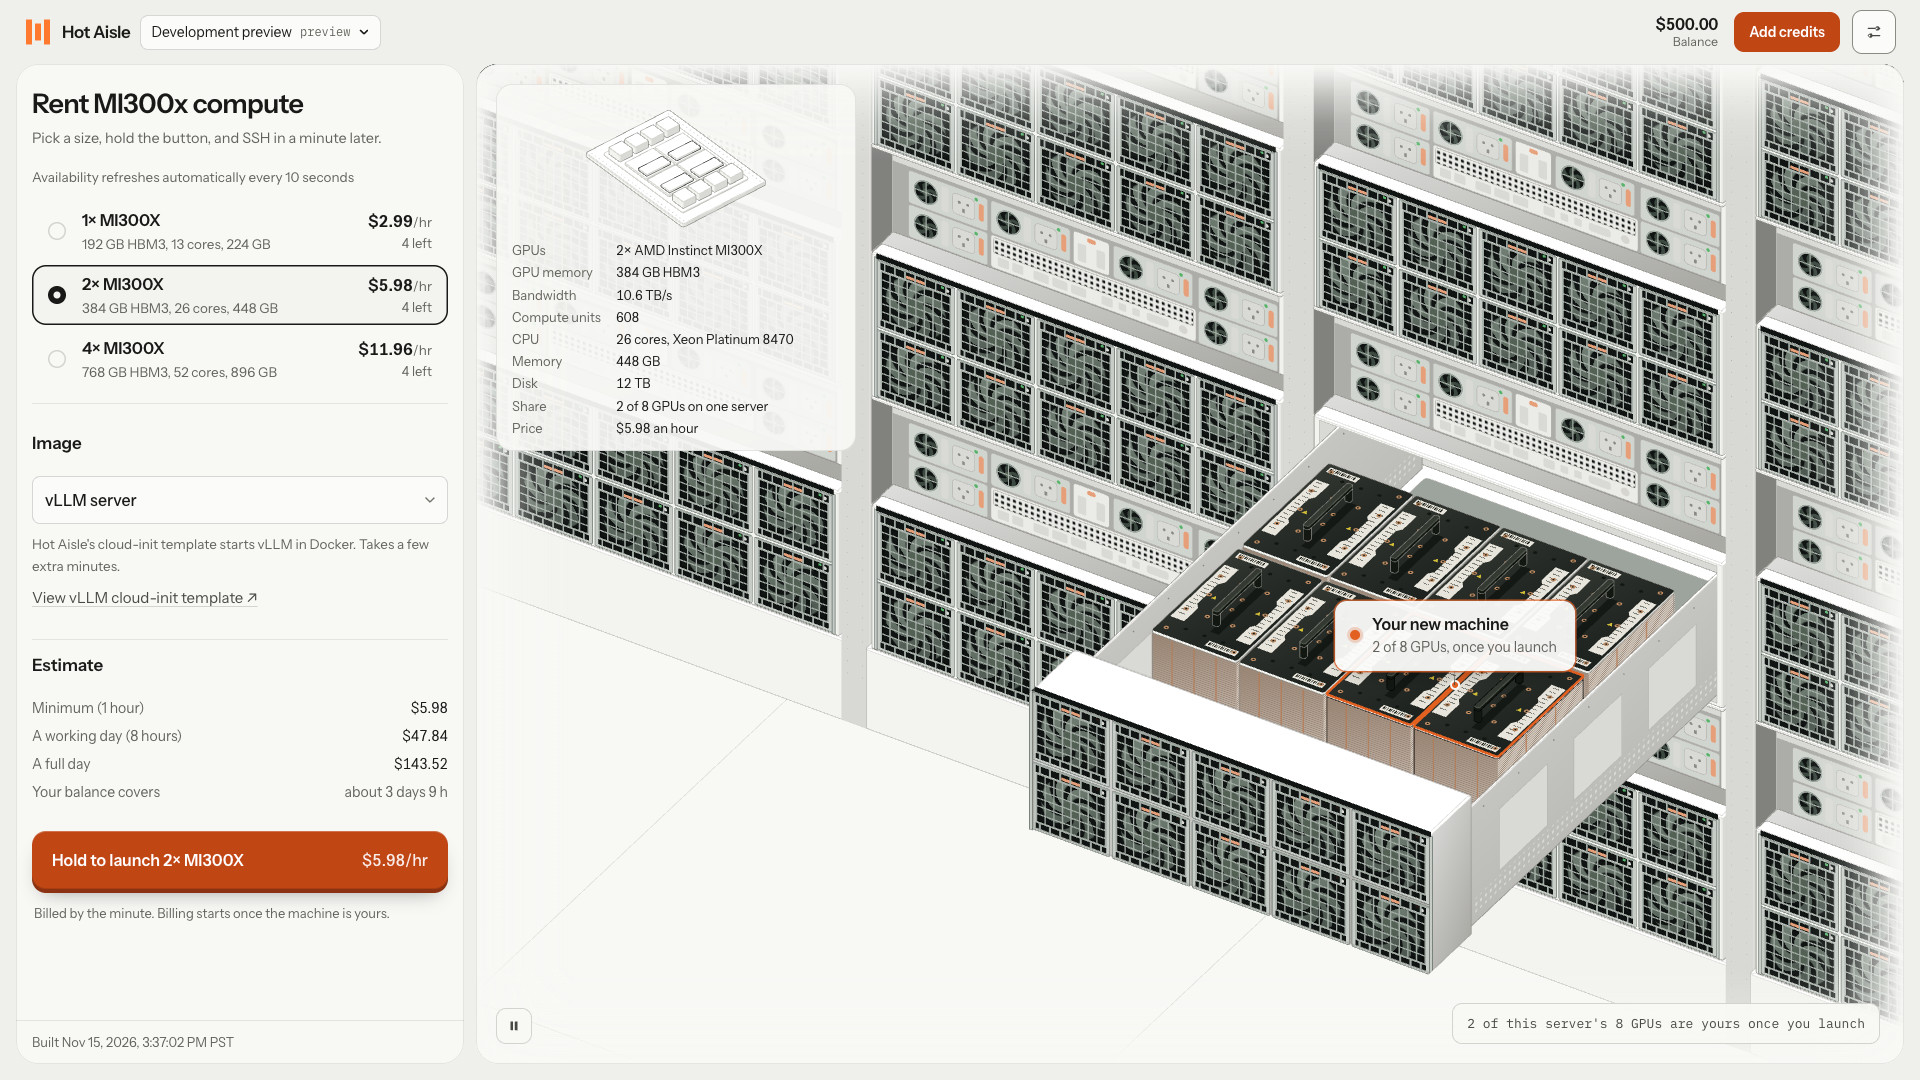
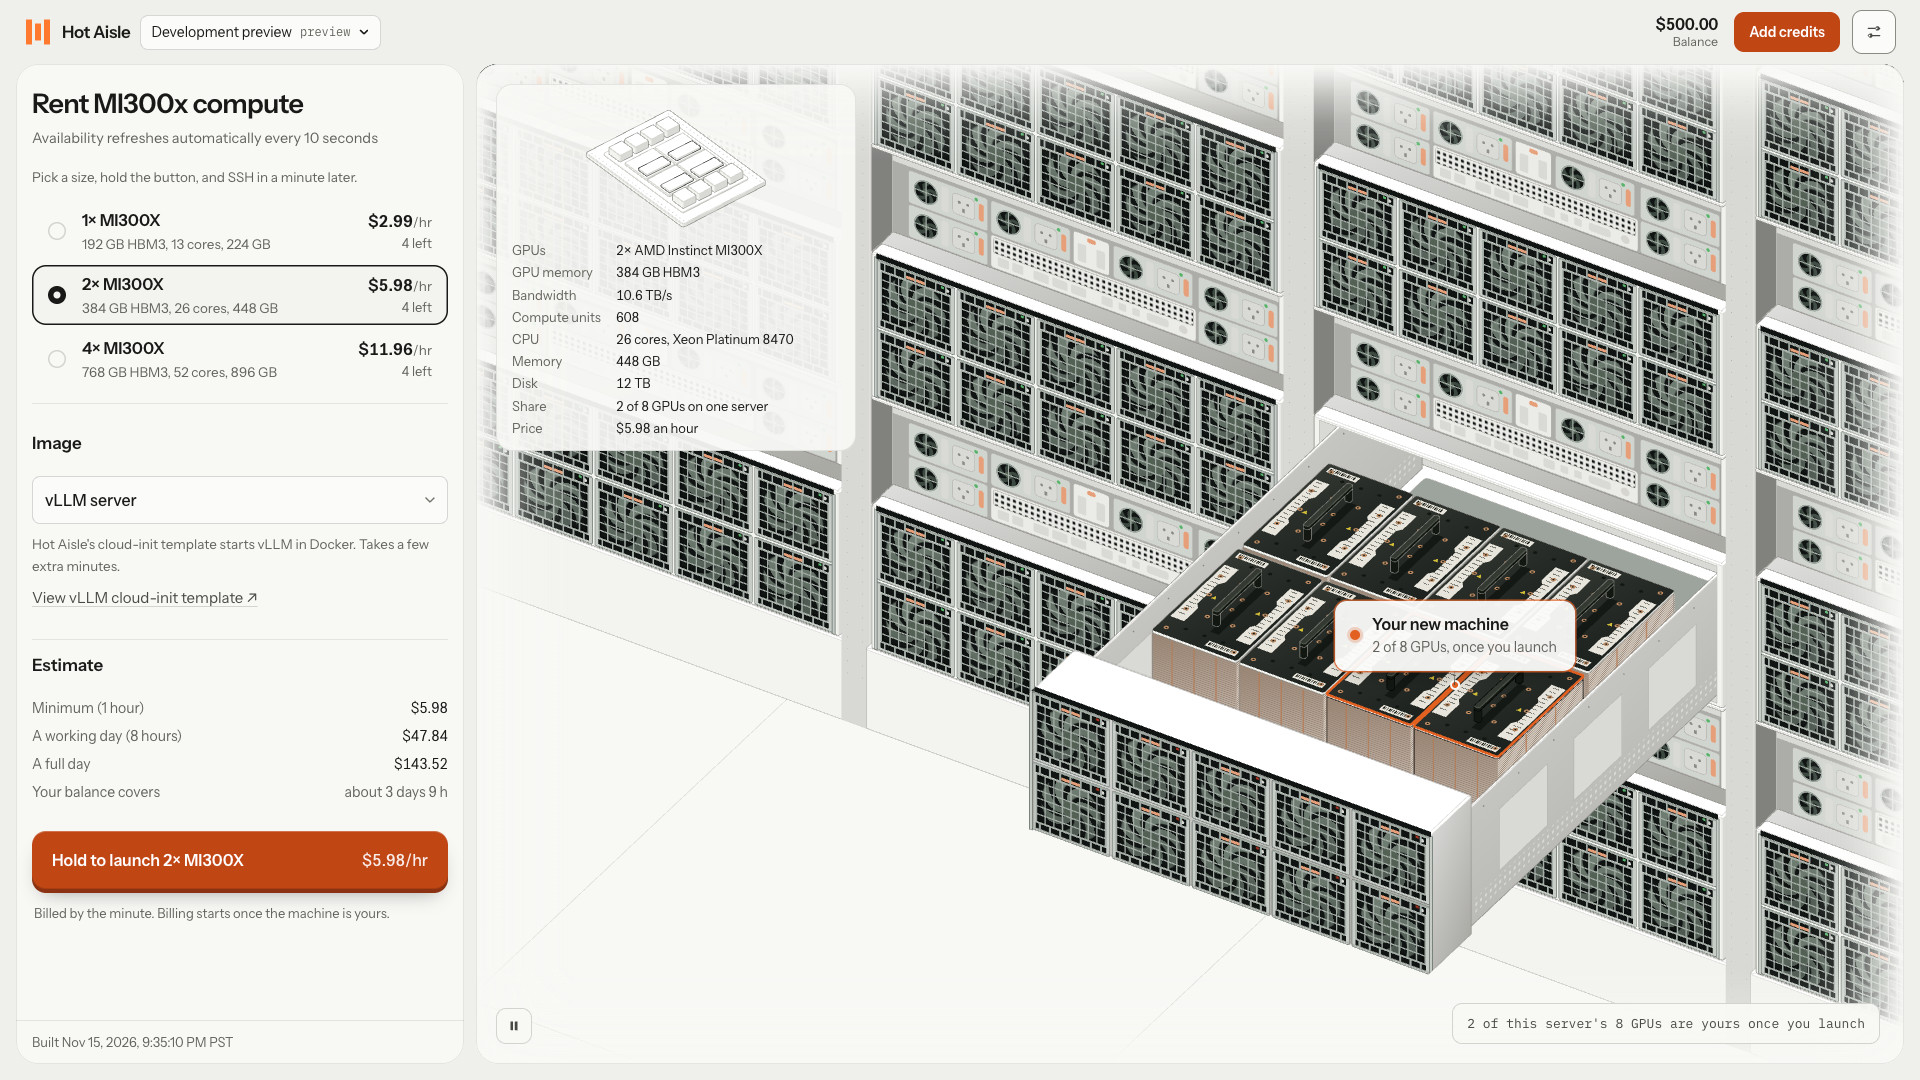
fix(credits): disclose capacity waits before payment (#19)

diff --git a/web/src/features/console/credits-view.test.tsx b/web/src/features/console/credits-view.test.tsx
@@ -11,11 +11,38 @@ beforeEach(() => {
 	vi.spyOn(window, "open").mockReturnValue(null);
 });
 describe("credits checkout", () => {
+	it("discloses the wait before checkout and updates when capacity changes", async () => {
+		const props = { gpuHour: 200, onDone: vi.fn(), team: "lab" };
+		const { rerender } = renderWithQuery(
+			<CreditsView {...props} waitingForCapacity />
+		);
+		expect(screen.getByRole("status")).toHaveTextContent(
+			"you'll need to wait for availability before you can launch"
+		);
+		const user = userEvent.setup();
+		const custom = screen.getByRole("spinbutton", { name: "Other" });
+		await user.type(custom, "20");
+		expect(custom).toHaveAccessibleDescription(
+			expect.stringContaining("not a compute reservation")
+		);
+		rerender(<CreditsView {...props} waitingForCapacity={false} />);
+		expect(screen.queryByRole("status")).not.toBeInTheDocument();
+		expect(custom).toHaveAccessibleDescription(
+			expect.stringContaining("does not guarantee an immediate launch")
+		);
+	});
 	it("does not create checkout below the minimum amount", async () => {
 		const user = userEvent.setup();
 		const buy = vi.spyOn(api, "buyCredits");
 		const done = vi.fn();
-		renderWithQuery(<CreditsView gpuHour={200} onDone={done} team="lab" />);
+		renderWithQuery(
+			<CreditsView
+				gpuHour={200}
+				onDone={done}
+				team="lab"
+				waitingForCapacity={false}
+			/>
+		);
 		await user.type(screen.getByRole("spinbutton", { name: "Other" }), "19");
 		await user.click(screen.getByRole("button", { name: CHECKOUT_PATTERN }));
 		expect(buy).not.toHaveBeenCalled();
@@ -39,7 +66,14 @@ describe("credits checkout", () => {
 			expires_at: "2030-01-01",
 		});
 		const done = vi.fn();
-		renderWithQuery(<CreditsView gpuHour={200} onDone={done} team="lab" />);
+		renderWithQuery(
+			<CreditsView
+				gpuHour={200}
+				onDone={done}
+				team="lab"
+				waitingForCapacity={false}
+			/>
+		);
 		await user.click(screen.getByRole("radio", { name: AMOUNT_PATTERN }));
 		await user.click(screen.getByRole("button", { name: CHECKOUT_PATTERN }));
 		await waitFor(() => expect(buy).toHaveBeenCalledWith("lab", 25_000));
@@ -60,7 +94,14 @@ describe("credits checkout", () => {
 			checkout_url: "https://checkout.stripe.com/test",
 			expires_at: "2030-01-01",
 		});
-		renderWithQuery(<CreditsView gpuHour={200} onDone={vi.fn()} team="lab" />);
+		renderWithQuery(
+			<CreditsView
+				gpuHour={200}
+				onDone={vi.fn()}
+				team="lab"
+				waitingForCapacity={false}
+			/>
+		);
 		await userEvent
 			.setup()
 			.click(screen.getByRole("button", { name: CHECKOUT_PATTERN }));
@@ -80,7 +121,14 @@ describe("credits checkout", () => {
 			checkout_url: "https://checkout.stripe.com.evil.test/pay",
 			expires_at: "2030-01-01",
 		});
-		renderWithQuery(<CreditsView gpuHour={200} onDone={vi.fn()} team="lab" />);
+		renderWithQuery(
+			<CreditsView
+				gpuHour={200}
+				onDone={vi.fn()}
+				team="lab"
+				waitingForCapacity={false}
+			/>
+		);
 		await userEvent
 			.setup()
 			.click(screen.getByRole("button", { name: CHECKOUT_PATTERN }));
@@ -95,7 +143,14 @@ describe("credits checkout", () => {
 			new Error("Checkout unavailable")
 		);
 		const done = vi.fn();
-		renderWithQuery(<CreditsView gpuHour={200} onDone={done} team="lab" />);
+		renderWithQuery(
+			<CreditsView
+				gpuHour={200}
+				onDone={done}
+				team="lab"
+				waitingForCapacity={false}
+			/>
+		);
 		await userEvent
 			.setup()
 			.click(screen.getByRole("button", { name: CHECKOUT_PATTERN }));

diff --git a/web/src/features/console/credits-view.tsx b/web/src/features/console/credits-view.tsx
@@ -15,10 +15,21 @@ const amounts = (state: { values: { amount: number; custom: string } }) =>
 export function CreditsView(props: {
 	team: string;
 	gpuHour: number;
+	waitingForCapacity: boolean;
 	onDone: () => void;
 }) {
 	return (
 		<div className="credits-view">
+			{!!props.waitingForCapacity && (
+				<p className="availability-empty" role="status">
+					<strong>No compute is available right now.</strong>
+					<span>
+						Your team has no provisioned machines. If you add credits now,
+						you'll need to wait for availability before you can launch. Paying
+						does not reserve a machine.
+					</span>
+				</p>
+			)}
 			<section aria-label="One-time credits">
 				<OneTimeCredits {...props} />
 			</section>
@@ -134,6 +145,7 @@ function OneTimeCredits({
 							<span className="dollar">
 								<span aria-hidden="true">$</span>
 								<input
+									aria-describedby={`${group}-minimum`}
 									id={`${group}-custom`}
 									inputMode="decimal"
 									max={999_999}
@@ -147,9 +159,15 @@ function OneTimeCredits({
 								/>
 							</span>
 						</label>
+						<p className="small" id={`${group}-minimum`}>
+							<strong>
+								$20 minimum credit purchase—not a compute reservation.
+							</strong>{" "}
+							Adding credits does not guarantee an immediate launch. You may
+							need to wait for a machine to become available.
+						</p>
 						<p className="muted small">
-							The minimum is $20. You pay on Stripe's page; this app never sees
-							your card.
+							You pay on Stripe's page; this app never sees your card.
 						</p>
 						{!!checkout.isError && (
 							<FormError

diff --git a/web/src/features/console/console-panel.tsx b/web/src/features/console/console-panel.tsx
@@ -136,7 +136,7 @@ export function ConsolePanel({ context }: { context: ConsoleContext }) {
 	let sub: string | undefined;
 	const action: React.ReactNode = null;
 	const launchSubtitle = sizes.some((size) => size.Quantity > 0)
-		? "Pick a size, hold the button, and SSH in a minute later."
+		? "Availability refreshes automatically every 10 seconds"
 		: undefined;
 	if (view === "home" && rootIsOrder) {
 		sub = launchSubtitle;
@@ -201,6 +201,14 @@ export function ConsolePanel({ context }: { context: ConsoleContext }) {
 				)}
 				onDone={creditsDone}
 				team={h}
+				waitingForCapacity={
+					offers.data !== undefined &&
+					!offers.error &&
+					!sizes.some((size) => size.Quantity > 0) &&
+					vms.data !== undefined &&
+					!vms.error &&
+					list.length === 0
+				}
 			/>
 		);
 	} else if (view === "run") {

diff --git a/web/dev/api.ts b/web/dev/api.ts
@@ -260,7 +260,12 @@ export class PreviewAPI {
 			return this.metal ? this.metal.request(request, url, parts) : json([]);
 		}
 		if (method === "GET" && parts[1] === "available") {
-			return json(available(this.machines.values()));
+			const offers = available(this.machines.values());
+			return json(
+				this.scenario === "no-capacity"
+					? offers.map((offer) => ({ ...offer, Quantity: 0 }))
+					: offers
+			);
 		}
 		if (parts[0] !== "virtual_machines") {
 			return fail(

diff --git a/web/src/features/launch/offer-status.tsx b/web/src/features/launch/offer-status.tsx
@@ -27,7 +27,7 @@ export function OfferStatus({
 				<p className="small muted availability-state" role="status">
 					{loading
 						? "Loading available sizes and prices…"
-						: "Availability refreshes automatically every 10 seconds"}
+						: "Pick a size, hold the button, and SSH in a minute later."}
 				</p>
 			)}
 			<FormError

diff --git a/web/dev/scenarios.ts b/web/dev/scenarios.ts
@@ -1,5 +1,6 @@
 export const SCENARIOS = [
 	{ id: "empty", label: "Empty" },
+	{ id: "no-capacity", label: "No capacity" },
 	{ id: "assigned", label: "Assigned" },
 	{ id: "setting-up", label: "Cloud-init" },
 	{ id: "booting", label: "Booting" },

diff --git a/docs/implementation.md b/docs/implementation.md
@@ -227,6 +227,13 @@ There is no automatic shutdown timer: the upstream API cannot schedule an end, a
 while the machine continues billing. Add-credit checkout uses Hot Aisle's Stripe checkout link; this app does
 not handle card details or claim a payment succeeded before confirmation.
 
+The Add credits page identifies the $20 minimum as a credit purchase, not a compute reservation.
+It warns that payment does not guarantee an immediate launch. When availability is confirmed empty
+and the team has no provisioned machines, a prominent notice explains that launching must wait
+for capacity. Loading or failed availability requests are not presented as confirmed shortages.
+The local **No capacity** preview starts with no provisioned machines and zero available quantities
+to exercise this warning without real payments.
+
 ## Repository workflow
 
 Work on a descriptive branch and open a PR into `main`. PRs authored by `jon-hotaisle` or `clint-hotaisle`
